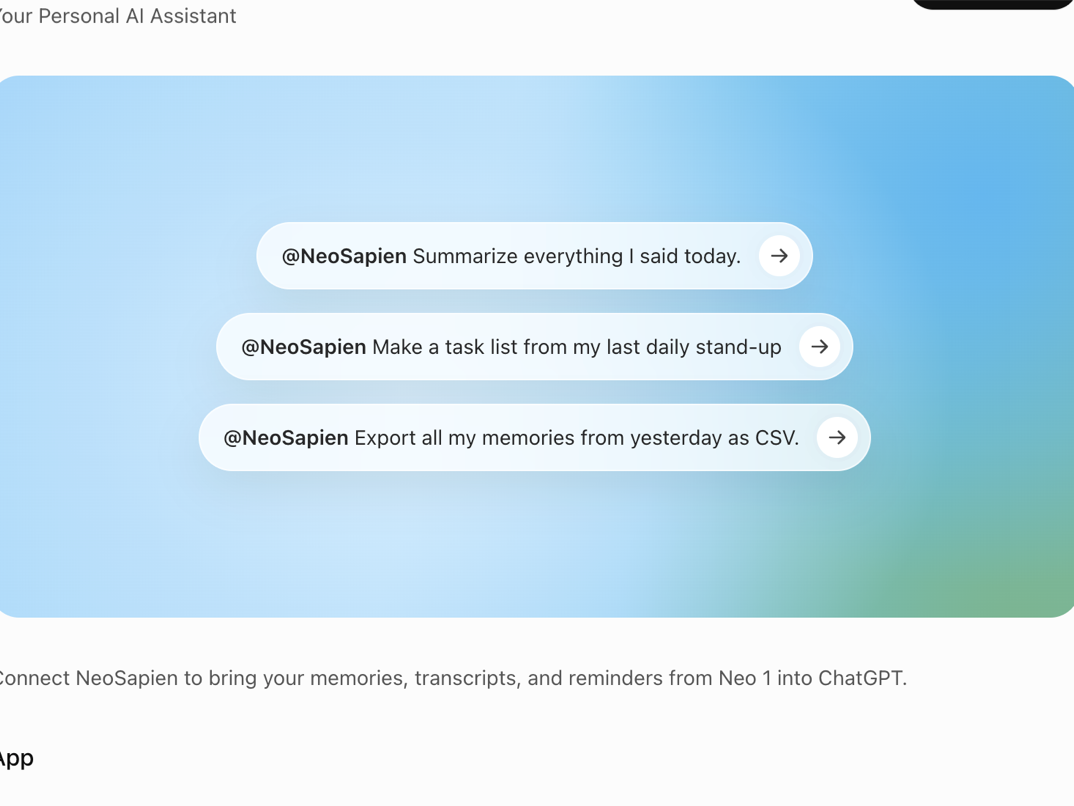
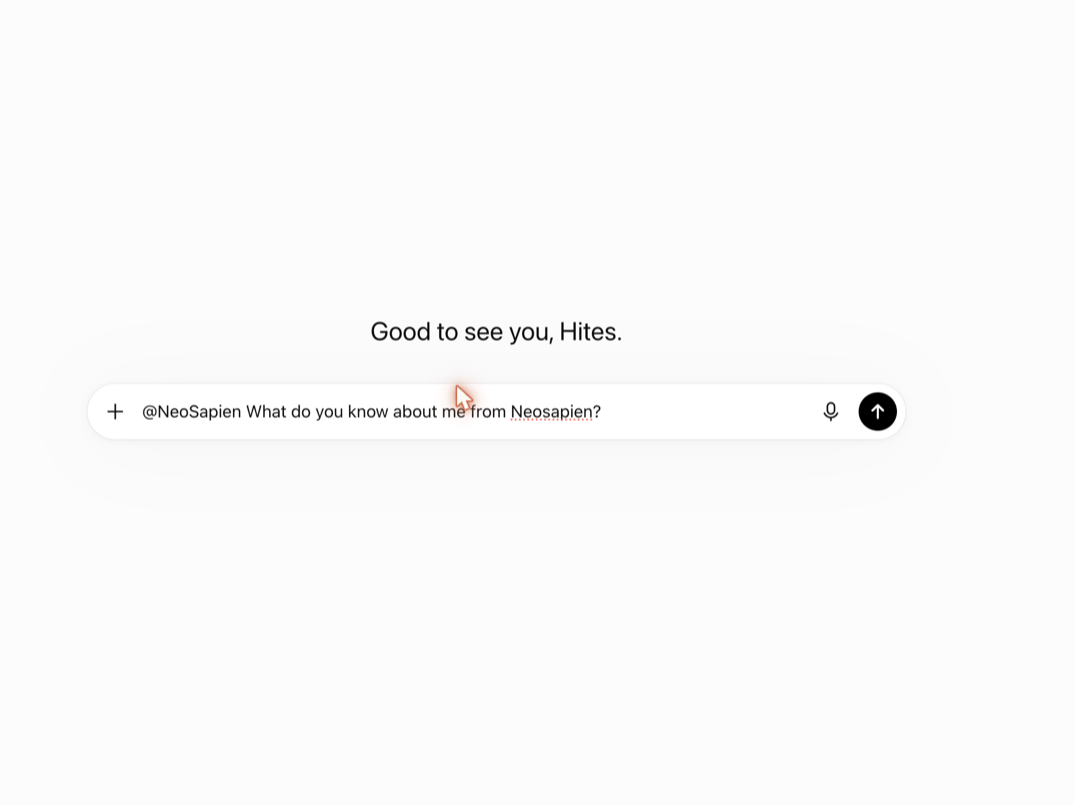
ChatGPT quick-setup step 4: real composer shot with the question typed
Final step now shows the actual ChatGPT input holding
'@NeoSapien What do you know about me from Neosapien?' with the send
button active — completing the setup story from install to first ask.
Step copy updated to the same question.

diff --git a/index.html b/index.html
@@ -17,7 +17,7 @@
   <link rel="icon" href="assets/icons/icon-192.png" />
 
   <link rel="preload" href="assets/fonts/worksans-latin.woff2" as="font" type="font/woff2" crossorigin />
-  <link rel="stylesheet" href="css/styles.css?v=14" />
+  <link rel="stylesheet" href="css/styles.css?v=15" />
 </head>
 <body>
   <div id="app" class="screen">
@@ -58,6 +58,6 @@
 
   <div id="toast" class="toast" role="status" aria-live="polite"></div>
 
-  <script src="js/app.js?v=14" type="module"></script>
+  <script src="js/app.js?v=15" type="module"></script>
 </body>
 </html>

diff --git a/sw.js b/sw.js
@@ -1,5 +1,5 @@
 // Neosapien MCP Guide — service worker (offline-first)
-const CACHE = 'neo-mcp-guide-v14';
+const CACHE = 'neo-mcp-guide-v15';
 
 // App shell + core assets pre-cached on install.
 const CORE = [
